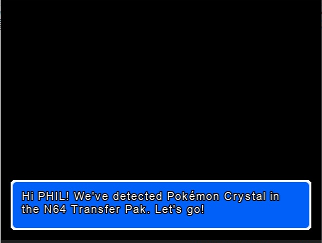
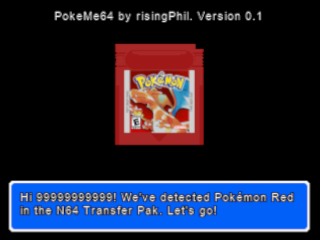
Feature/update docs (#6)
Do some changes to README.md, CREDITS.md and the screenshots

Changed region(s): [[0.0, 0.7292, 1.0, 1.0], [0.3438, 0.175, 0.6562, 0.6125], [0.1562, 0.0292, 0.8438, 0.1167]]

diff --git a/CREDITS.md b/CREDITS.md
@@ -12,7 +12,9 @@ Furthermore I like to develop the developers of the [libdragon](https://github.c
 
 Thanks to the [PkHex](https://github.com/kwsch/PKHeX) project as well, because its code was useful to me to get the event flag offsets for G/S/C games and figure out the GS ball event flags. I may also use their codebase as a reference in the future in order to try to support the gen 1/2 games in other languages.
 
+I'd also like to extend my thanks to "[The Gears of Progress](https://github.com/GearsProgress)", [LJ Birdman](https://x.com/LJSTAR_), [LuigiTKO](https://x.com/LuigiTKO), [GuiAbel](https://x.com/guiabel/) and [SourApple](https://github.com/SoupPotato) of the [Poke Transporter GB](https://github.com/GearsProgress/Poke_Transporter_GB) project for allowing me to use their logo and even create the Fennel picture asset for this project. It looks amazing, you guys! Much better than anything I could've created!
+
 And of course I'd like to extend my thanks to everyone else in the pokémunity who wrote documentation or code for these old pokémon games. 
 
 I've listed the specific resources I used for reading the rom/save game data in the CREDITS.md file of the libpokemegb project.
- 
+
